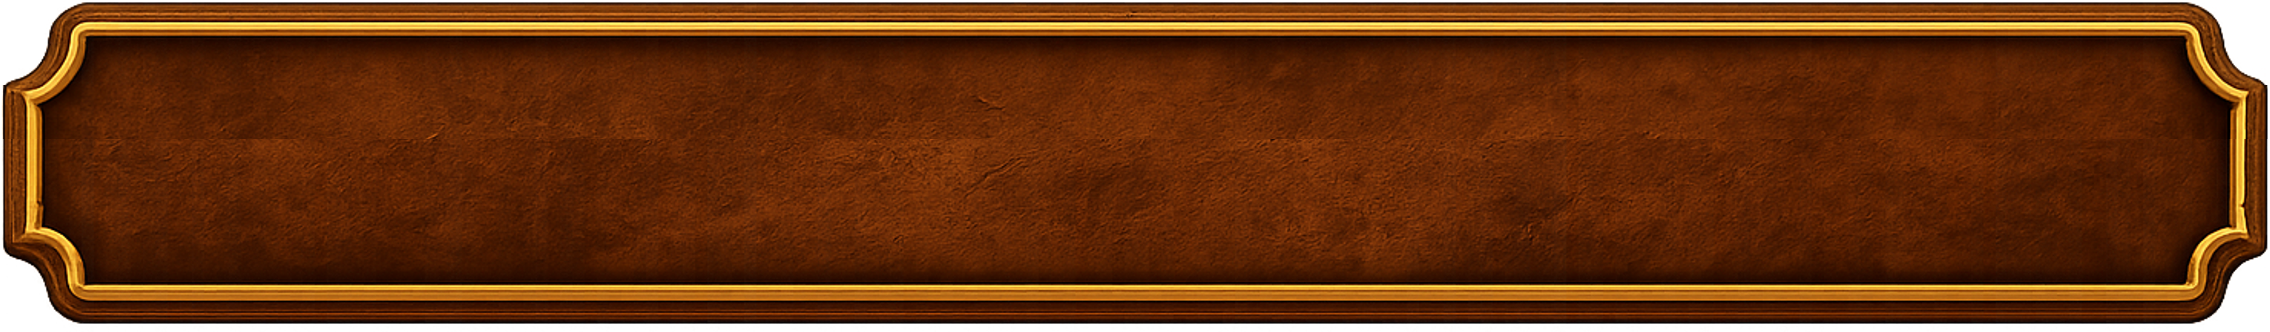
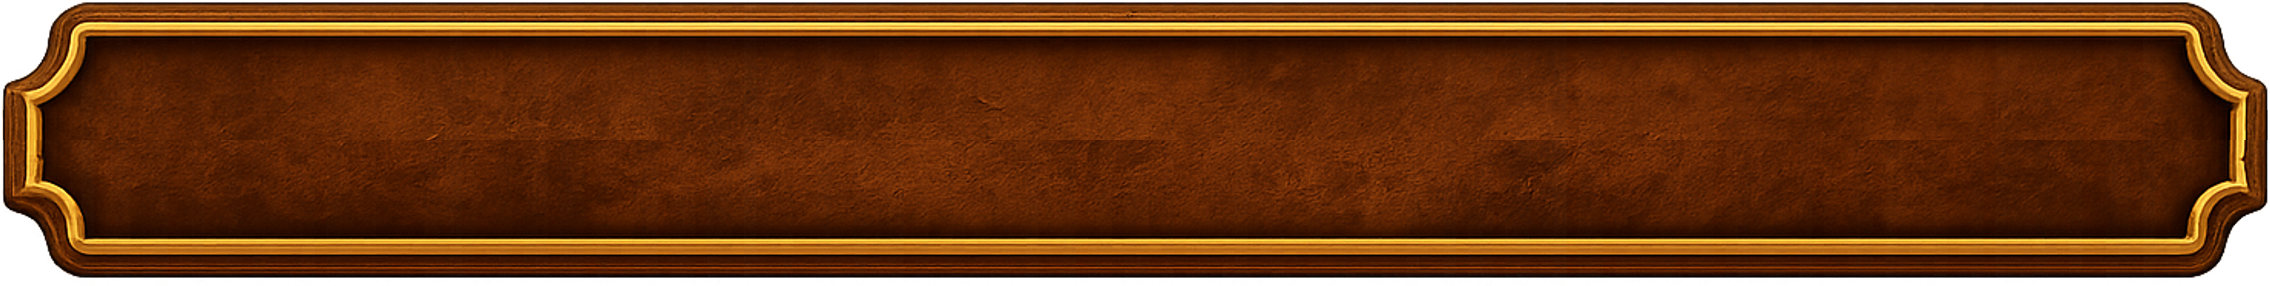
Basic look ok

diff --git a/src/features/claim/pages/ClaimCharmPage.css b/src/features/claim/pages/ClaimCharmPage.css
@@ -119,7 +119,7 @@
 /* Core card */
 .teCard {
   position: relative;
-  padding: 16px;
+  padding: 26px 46px 26px 46px;
   background: rgba(32, 18, 10, 0.62);
   border: 1px solid rgba(210, 170, 110, 0.25);
   border-radius: 18px;
@@ -205,11 +205,11 @@
 
 /* pills */
 .teFieldLabel {
-  font-size: 12px;
+  font-size: 24px;
   opacity: 0.75;
   letter-spacing: 1px;
   text-transform: uppercase;
-  margin-bottom: 8px;
+  margin-bottom: 4px;
 }
 
 .tePills {
@@ -337,7 +337,7 @@
   position: relative;
   width: 108%;
   margin-left: -4%;
-  aspect-ratio: 2270 / 332;
+  aspect-ratio: 2270 / 286;
   background-size: 100% 100%;
   background-repeat: no-repeat;
 }

diff --git a/src/app/shell/shell.css b/src/app/shell/shell.css
@@ -7,6 +7,7 @@
   height: 1600px;
   position: relative;
   overflow: hidden;
+  margin-left: 30px;
 
   /* Base typography inside the frame */
   color: #f3e7cf;
@@ -93,7 +94,7 @@
 
 /* Scrollable middle */
 .te-scroll {
-  padding: 32px 100px 32px 100px; /* top right bottom left */
+  padding: 32px 75px 32px 75px; /* top right bottom left */
   overflow-y: auto;
   overflow-x: hidden;
   -webkit-overflow-scrolling: touch;
